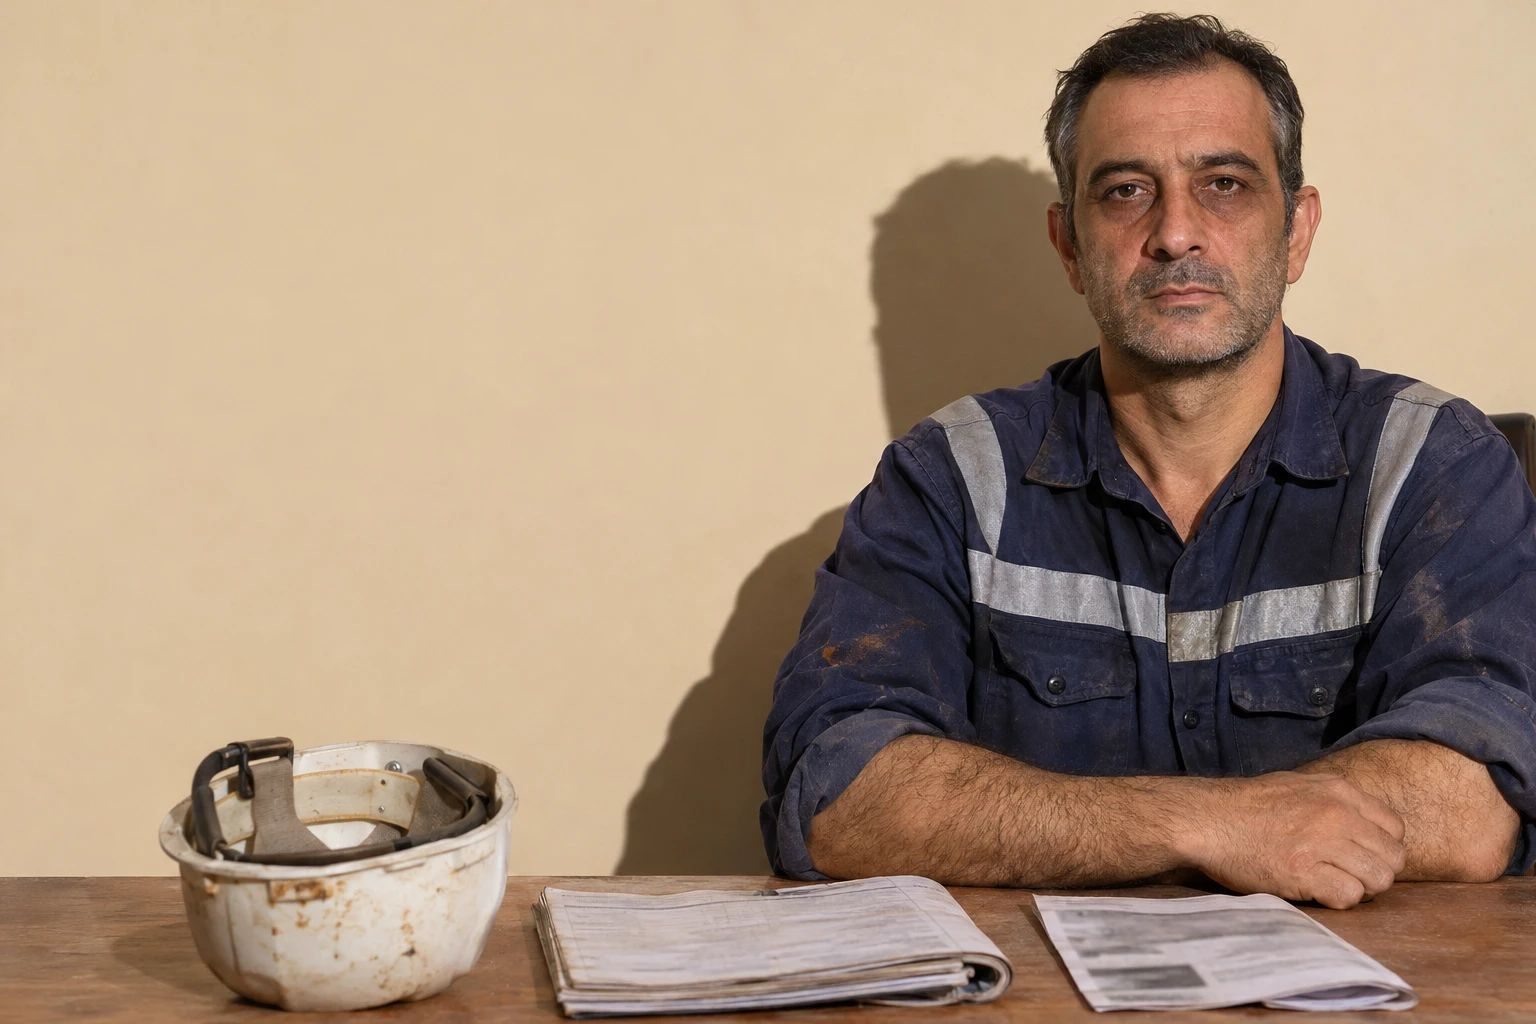
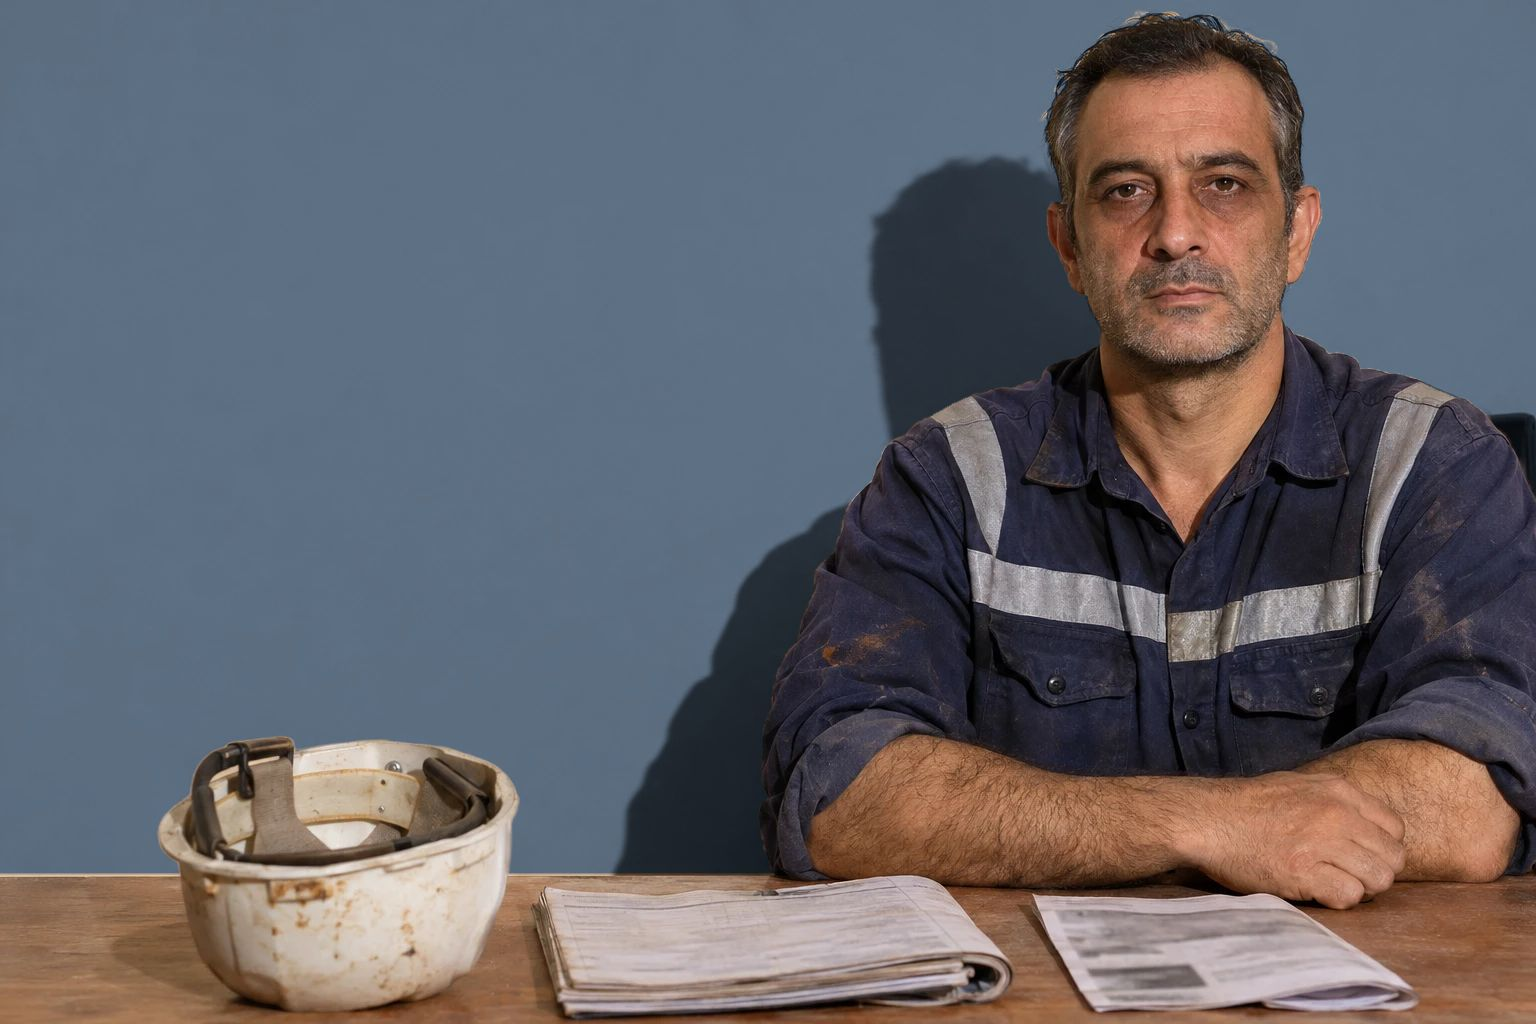
Lane colours: per-lane backdrop and headline colour; TRT and Weight walls recoloured (EDU PROMPT 28)
Claude-Session: https://claude.ai/code/session_01QwKDmkX3ut6PMs4NyAcEnb

diff --git a/app/globals.css b/app/globals.css
@@ -626,7 +626,7 @@ span.tone-none { background: #d9d0bd; }
 .spread2 .spreadSide { align-content: start; }
 /* Keep the headline legible where a tall crop puts it over his shirt: a sand fade on the left that ends before his face
    (his face starts at about two thirds of the width at every size). The caption gets a light paper backing. */
-.spread2 .spreadPhoto::after { content: ''; position: absolute; inset: 0; pointer-events: none; background: linear-gradient(90deg, rgba(226, 212, 186, 0.92) 0%, rgba(226, 212, 186, 0.82) var(--fade-solid, 36%), rgba(226, 212, 186, 0) var(--fade-end, 60%)); }
+.spread2 .spreadPhoto::after { content: ''; position: absolute; inset: 0; pointer-events: none; background: linear-gradient(90deg, rgba(var(--lane-fade, 226, 212, 186), 0.92) 0%, rgba(var(--lane-fade, 226, 212, 186), 0.82) var(--fade-solid, 36%), rgba(var(--lane-fade, 226, 212, 186), 0) var(--fade-end, 60%)); }
 .spread2 .spreadHead, .spread2 .spreadCaption { z-index: 2; }
 .spread2 .spreadCaption { background: rgba(247, 243, 234, 0.78); padding: 1px 6px; border-radius: 2px; }
 
@@ -649,7 +649,7 @@ span.tone-none { background: #d9d0bd; }
 
 /* PROMPT 19: lane pages share Home's Magazine Section. Sand placeholder until a lane photo exists; the current lane in
    "In this issue" marked in punch red. */
-.spreadPhotoPlaceholder { background: var(--sand); }
+.spreadPhotoPlaceholder { background: var(--lane-backdrop, var(--sand)); }
 .spread2 .spreadPhotoPlaceholder::after { display: none; }
 .spreadPhotoPlaceholder .spreadCaption { background: none; }
 .issueLanes a[aria-current='true'] .issueNum, .issueLanes a[aria-current='true'] .issueNow { color: var(--punch); }
@@ -757,3 +757,8 @@ span.tone-none { background: #d9d0bd; }
   [data-lane='weight'] .spreadHead { max-width: 54%; }
   [data-lane='weight'] .spreadTitle { font-size: clamp(30px, 11cqw, 72px); }
 }
+
+/* EDU PROMPT 28: lane colours. A cream lane's headline and dek are cream on its backdrop (navy lanes keep ink and navy).
+   The photo's caption chip keeps its paper backing; the placeholder's caption takes the headline colour. */
+.spreadCream .spreadTitle, .spreadCream .spreadNavy, .spreadCream .spreadDek { color: var(--lane-headline); }
+.spreadCream.spreadPhotoPlaceholder .spreadCaption { color: var(--lane-headline); opacity: 0.9; }

diff --git a/components/magazine/story.tsx b/components/magazine/story.tsx
@@ -27,10 +27,25 @@ export function lanePhoto(key: string, alt: string, own?: { file: string; alt: s
     : { kind: 'placeholder' };
 }
 
-export function StoryPhoto({ photo, headline, dek, as = 'h2' }: { photo: StoryPhotoData; headline: [string, string]; dek: string; as?: 'h1' | 'h2' }) {
+/** EDU PROMPT 28: a lane's photo colours. backdrop fills the placeholder and tints the fade behind the headline; a cream
+ *  headline colour turns the headline and dek cream (navy lanes keep the standard ink-and-navy headline). */
+export type LaneColors = { backdrop: string; headline: string };
+const rgbOf = (hex: string) => [1, 3, 5].map((i) => parseInt(hex.slice(i, i + 2), 16)).join(', ');
+const SAND = '#EDE5D3';
+const NAVY = '#0F2C55';
+
+export function StoryPhoto({ photo, headline, dek, as = 'h2', colors }: { photo: StoryPhotoData; headline: [string, string]; dek: string; as?: 'h1' | 'h2'; colors?: LaneColors }) {
   const H = as;
+  const cream = !!colors && colors.headline.toUpperCase() !== NAVY;
+  // Sand lanes keep the fade tone matched to their sand photo wall; every other lane fades into its own backdrop.
+  const style = colors ? ({
+    '--lane-backdrop': colors.backdrop,
+    '--lane-headline': colors.headline,
+    ...(colors.backdrop.toUpperCase() !== SAND ? { '--lane-fade': rgbOf(colors.backdrop) } : {}),
+  } as React.CSSProperties) : undefined;
+  const cls = ['spreadPhoto', photo.kind === 'placeholder' ? 'spreadPhotoPlaceholder' : '', cream ? 'spreadCream' : ''].filter(Boolean).join(' ');
   return (
-    <div className={photo.kind === 'placeholder' ? 'spreadPhoto spreadPhotoPlaceholder' : 'spreadPhoto'}>
+    <div className={cls} style={style}>
       {photo.kind !== 'placeholder' ? (
         <Image src={photo.src} alt={photo.alt} fill priority sizes="(min-width: 1180px) 744px, (min-width: 860px) 64vw, 100vw"
           style={{ objectFit: 'cover', objectPosition: photo.position }} />

diff --git a/components/magazine/lane-story.tsx b/components/magazine/lane-story.tsx
@@ -17,7 +17,7 @@ export function LaneSpread({ lane, laneMark = false }: { lane: LaneKey; laneMark
   return (
     <section className="section spreadSection" data-lane={lane}>
       <div className="wrap spread2">
-        <StoryPhoto photo={lanePhoto(lane, st.photoAlt, photo)} headline={st.headline} dek={st.dek} />
+        <StoryPhoto photo={lanePhoto(lane, st.photoAlt, photo)} headline={st.headline} dek={st.dek} colors={{ backdrop: st.backdrop, headline: st.headlineColor }} />
         <InThisIssue entries={issueEntries(lane)} laneMark={laneMark} />
         <StoryArticleNotes lane={lane} byline={st.byline} body={st.body} notes={st.notes} glance={st.glance} pull={st.pull} />
         <aside className="spreadSide">

diff --git a/content/lanes/types.ts b/content/lanes/types.ts
@@ -14,6 +14,12 @@ export type LaneStory = {
   key: LaneKey;
   headline: [string, string];
   dek: string;
+  /**
+   * EDU PROMPT 28: the lane's colours for its story photo and placeholder. backdrop: the wall colour (the placeholder's
+   * fill and the soft fade behind the headline); headlineColor: the headline and dek inside the photo (cream or navy).
+   */
+  backdrop: string;
+  headlineColor: string;
   photoAlt: string;
   /** The story's photo in public/images/photos/, when it has its own; else lane-<key>.jpg, else the sand placeholder. */
   photo?: { file: string; alt: string; position: string };

diff --git a/images-src/recolor-wall.py b/images-src/recolor-wall.py
@@ -1,0 +1,88 @@
+# EDU PROMPT 28: recolour only the sand wall of a lane photo, keeping its light and shadow (his shadow stays, recoloured).
+# Sources: images-src/lane-<lane>-sand-original.webp (the sand originals). Masks: images-src/masks/, made with rembg
+# (isnet-general-use for the man and every object, birefnet-portrait for his outline). Output: images-src/<lane>-recolor.png,
+# then saved as public/images/photos/lane-<lane>.jpg (JPEG quality 80, 1536x1024, no metadata).
+# Usage (needs numpy, opencv-python-headless, pillow): python3 images-src/recolor-wall.py <lane> <hex> <band px>
+#   trt: python3 images-src/recolor-wall.py trt '#5D6F82' 2      weight: python3 images-src/recolor-wall.py weight '#5B5E3A' 5
+import sys, numpy as np, cv2
+from PIL import Image
+import os
+HERE = os.path.dirname(os.path.abspath(__file__))
+D = os.path.join(HERE, 'masks') + '/'
+OUT = HERE + '/'
+SRC = {'trt': os.path.join(HERE, 'lane-trt-sand-original.webp'), 'weight': os.path.join(HERE, 'lane-weight-sand-original.webp')}
+lane, hexc = sys.argv[1], sys.argv[2]
+BAND = int(sys.argv[3]) if len(sys.argv) > 3 else 5
+img = np.asarray(Image.open(SRC[lane]).convert('RGB')).astype(np.float32) / 255
+H, W, _ = img.shape
+lin = lambda c: np.where(c <= 0.04045, c / 12.92, ((c + 0.055) / 1.055) ** 2.4)
+srgb = lambda c: np.where(c <= 0.0031308, c * 12.92, 1.055 * np.clip(c, 0, None) ** (1 / 2.4) - 0.055)
+L = lin(img)
+m1 = np.asarray(Image.open(D + f'mask-{lane}-isnet-general-use.png')).astype(np.float32) / 255
+m2 = np.asarray(Image.open(D + f'mask-{lane}-birefnet-portrait.png')).astype(np.float32) / 255
+fg = np.maximum(m1, m2)
+fg = np.clip((fg - 0.04) / 0.92, 0, 1)            # drop faint mask haze over the wall
+# Wall zone: everything above the table top (TRT); the whole frame (Weight).
+zone = np.ones((H, W), np.float32)
+if lane == 'trt':
+    # The table top is a straight edge at y = 877 (measured at both ends of the frame); the wall stops 2px above it.
+    yy = np.arange(H)[:, None]
+    zone = np.repeat(np.clip((875 - yy) / 3.0, 0, 1), W, axis=1).astype(np.float32)
+wall = (1 - fg) * zone
+# Local wall colour B (linear), filled under the foreground by normalised convolution at a few scales.
+known = ((fg < 0.02) & (zone > 0.99)).astype(np.float32)
+B = np.zeros_like(L); have = np.zeros((H, W), np.float32)
+for sig in (6, 18, 50, 140):
+    num = cv2.GaussianBlur(L * known[..., None], (0, 0), sig); den = cv2.GaussianBlur(known, (0, 0), sig)
+    est = num / np.maximum(den, 1e-6)[..., None]
+    take = (den > 0.05) & (have < 0.5)
+    B[take] = est[take]; have[take] = 1
+# Where the wall is seen clearly, its own pixel is the wall colour (keeps every shadow edge sharp, no halo).
+B[known > 0] = L[known > 0]
+# Edge band (a few px around the man's outline, from the portrait mask): decide by hue. A pixel with the wall's sand hue
+# is wall, or a mix of wall and something dark, and is recoloured at its own lightness; skin and other colours keep the
+# mask; near-neutral pixels (black shirt, white notice) keep the mask too.
+def lab(c):
+    X = c @ np.array([[0.4124, 0.2126, 0.0193], [0.3576, 0.7152, 0.1192], [0.1805, 0.0722, 0.9505]], np.float32)
+    X = X / np.array([0.9505, 1.0, 1.089], np.float32)
+    f = np.where(X > 0.008856, np.cbrt(X), 7.787 * X + 16 / 116)
+    return 116 * f[..., 1] - 16, 500 * (f[..., 0] - f[..., 1]), 200 * (f[..., 1] - f[..., 2])
+Lc, ac, bc = lab(L)
+hue = np.degrees(np.arctan2(bc, ac)); chroma = np.hypot(ac, bc)
+known0 = (fg < 0.02) & (zone > 0.99)
+h_s = float(np.median(hue[known0]))
+solid = (m2 > 0.5).astype(np.uint8)
+k = cv2.getStructuringElement(cv2.MORPH_ELLIPSE, (2 * BAND + 1, 2 * BAND + 1))
+band = (cv2.dilate(solid, k) - cv2.erode(solid, k)).astype(bool)
+dh = np.abs((hue - h_s + 180) % 360 - 180)
+w_hue = np.clip((28 - dh) / 15, 0, 1) * np.clip((chroma - 3) / 3, 0, 1)
+wall = (1 - fg)
+kn0 = known0.astype(np.float32)
+ysm0 = cv2.GaussianBlur((0.2126 * L[..., 0] + 0.7152 * L[..., 1] + 0.0722 * L[..., 2]) * kn0, (0, 0), 10) / np.maximum(cv2.GaussianBlur(kn0, (0, 0), 10), 1e-6)
+glow = band & (0.2126 * L[..., 0] + 0.7152 * L[..., 1] + 0.0722 * L[..., 2] > ysm0 * 1.02) & (dh < 30)
+if BAND > 0:
+    wall[band] = np.where(chroma[band] > 6, w_hue[band], wall[band])
+    wall[glow] = 1.0                 # the thin bright glow at his outline is lit wall
+if BAND > 0:
+    wm = cv2.medianBlur((wall * 255).astype(np.uint8), 3).astype(np.float32) / 255
+    wall[band] = wm[band]          # clear single stray pixels in the edge band
+wall = cv2.GaussianBlur(wall, (0, 0), 0.5) * zone
+print('sand hue', round(h_s, 1))
+# Lightness mapping onto the new colour.
+Y = lambda a: 0.2126 * a[..., 0] + 0.7152 * a[..., 1] + 0.0722 * a[..., 2]
+yb = Y(B); yref = np.median(Y(L)[known > 0])
+T = lin(np.array([int(hexc[i:i + 2], 16) for i in (1, 3, 5)], np.float32) / 255)
+Bnew = T[None, None, :] * (yb / yref)[..., None]
+# Edge band: map each pixel from its own lightness (its dark part stays dark, its sand part becomes the new colour).
+yl = Y(L)
+# Near his outline, no pixel may map brighter than the wall around it: the thin bright glow at the ear and hair edge
+# would otherwise turn into a light rim on the new colour.
+ring = cv2.dilate((m2 > 0.5).astype(np.uint8), cv2.getStructuringElement(cv2.MORPH_ELLIPSE, (13, 13))).astype(bool) & ~(m2 > 0.98)
+kn = known.astype(np.float32)
+ysm = cv2.GaussianBlur(Y(L) * kn, (0, 0), 10) / np.maximum(cv2.GaussianBlur(kn, (0, 0), 10), 1e-6)
+yl = np.where(ring, np.minimum(yl, ysm * 1.01), yl)
+Pnew = T[None, None, :] * (yl / yref)[..., None]
+out = L + wall[..., None] * (Pnew - L)
+res = np.clip(srgb(np.clip(out, 0, 1)) * 255 + 0.5, 0, 255).astype(np.uint8)
+Image.fromarray(res).save(OUT + f'{lane}-recolor.png')
+print(lane, 'wall ref luminance', round(float(yref), 3), 'wall share', round(float((wall > 0.5).mean()), 3))
